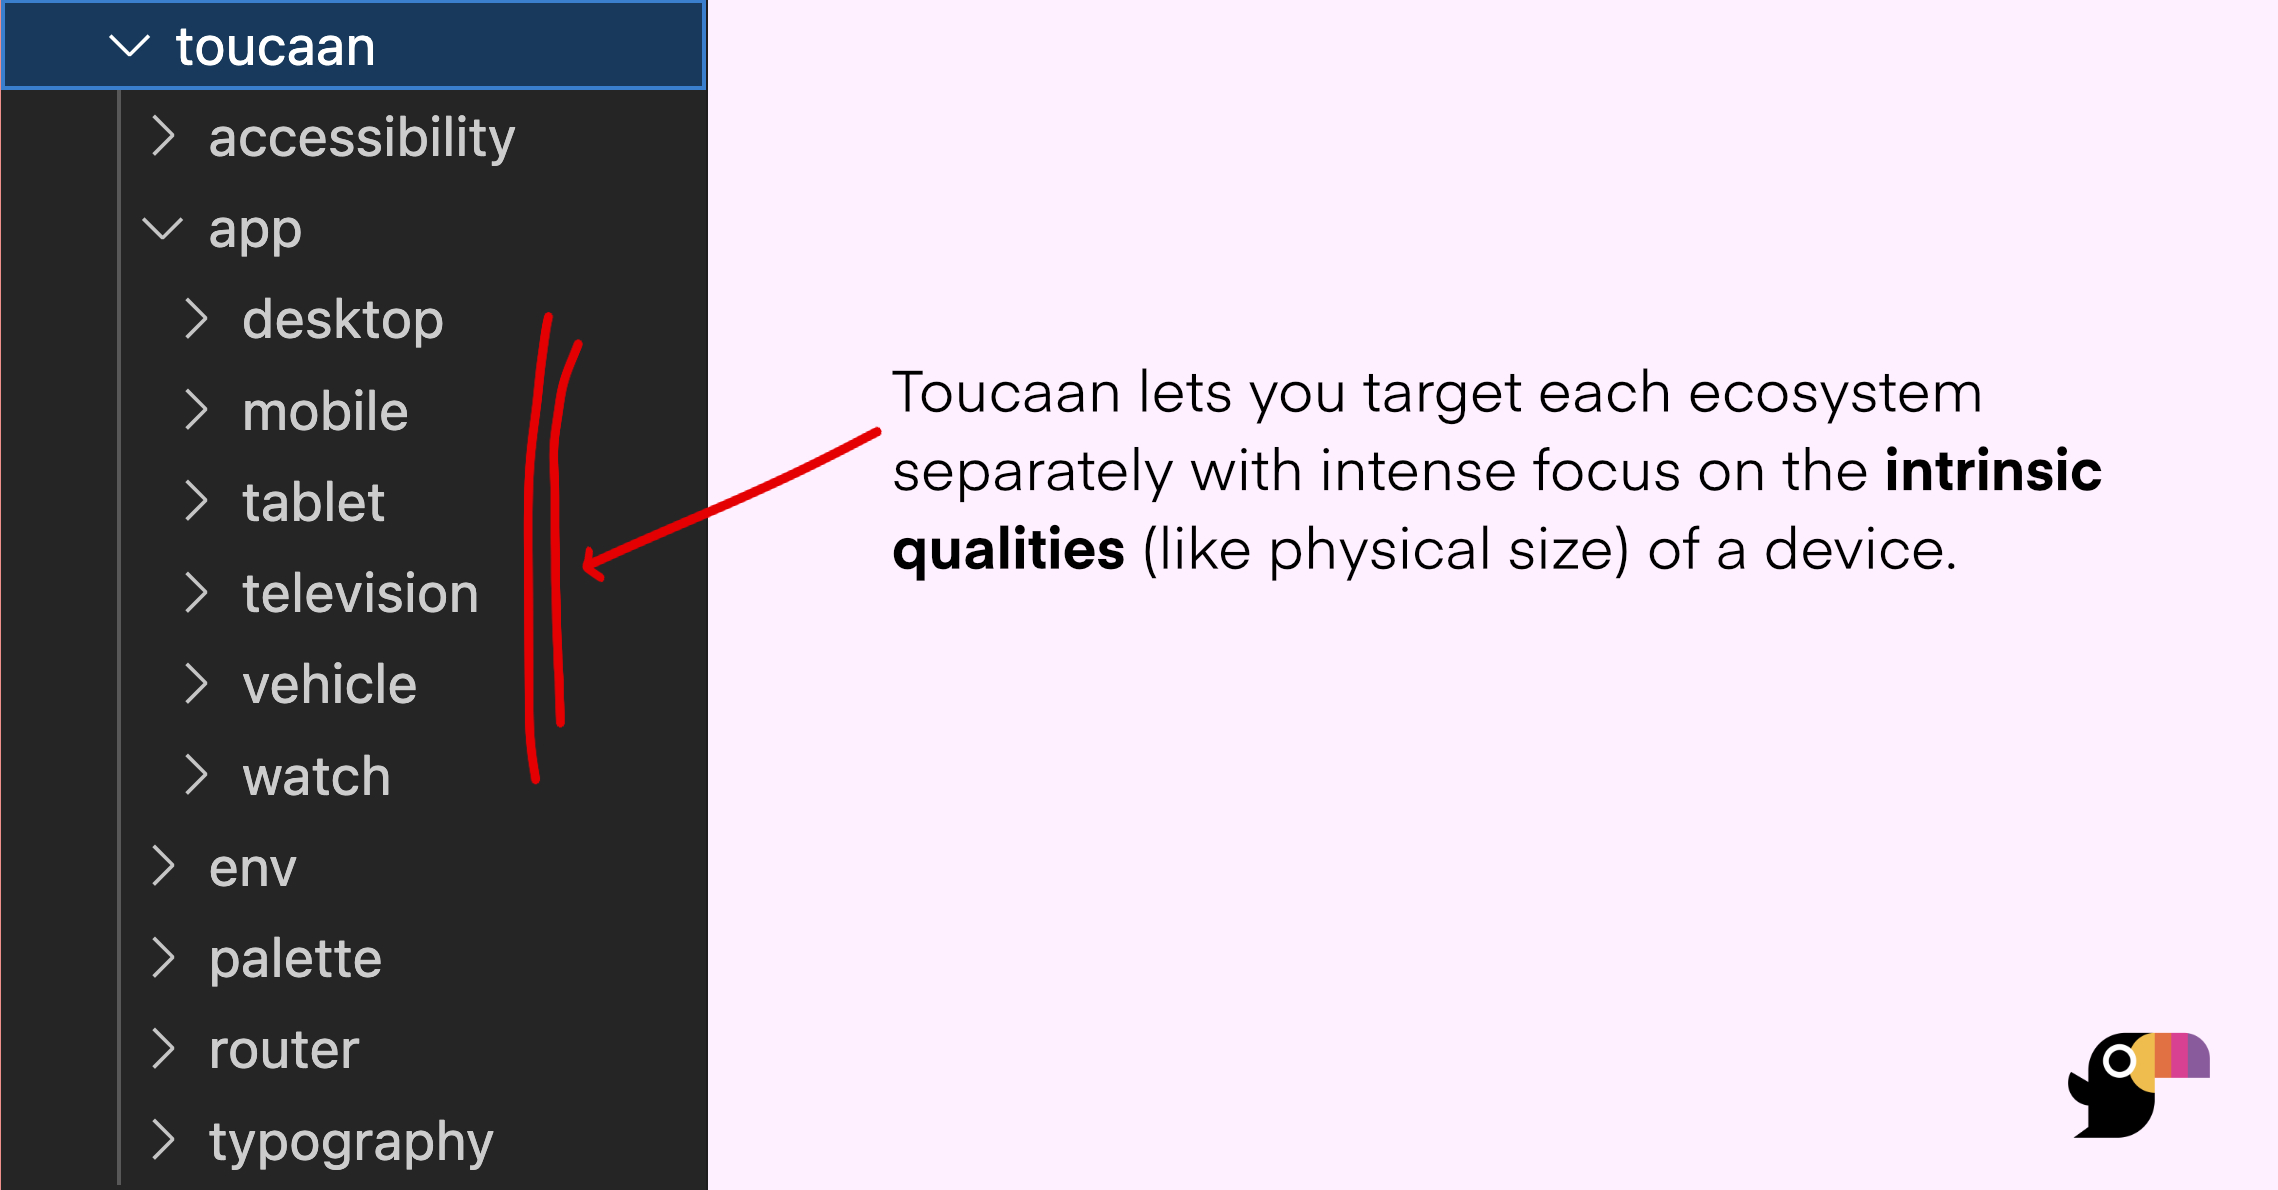
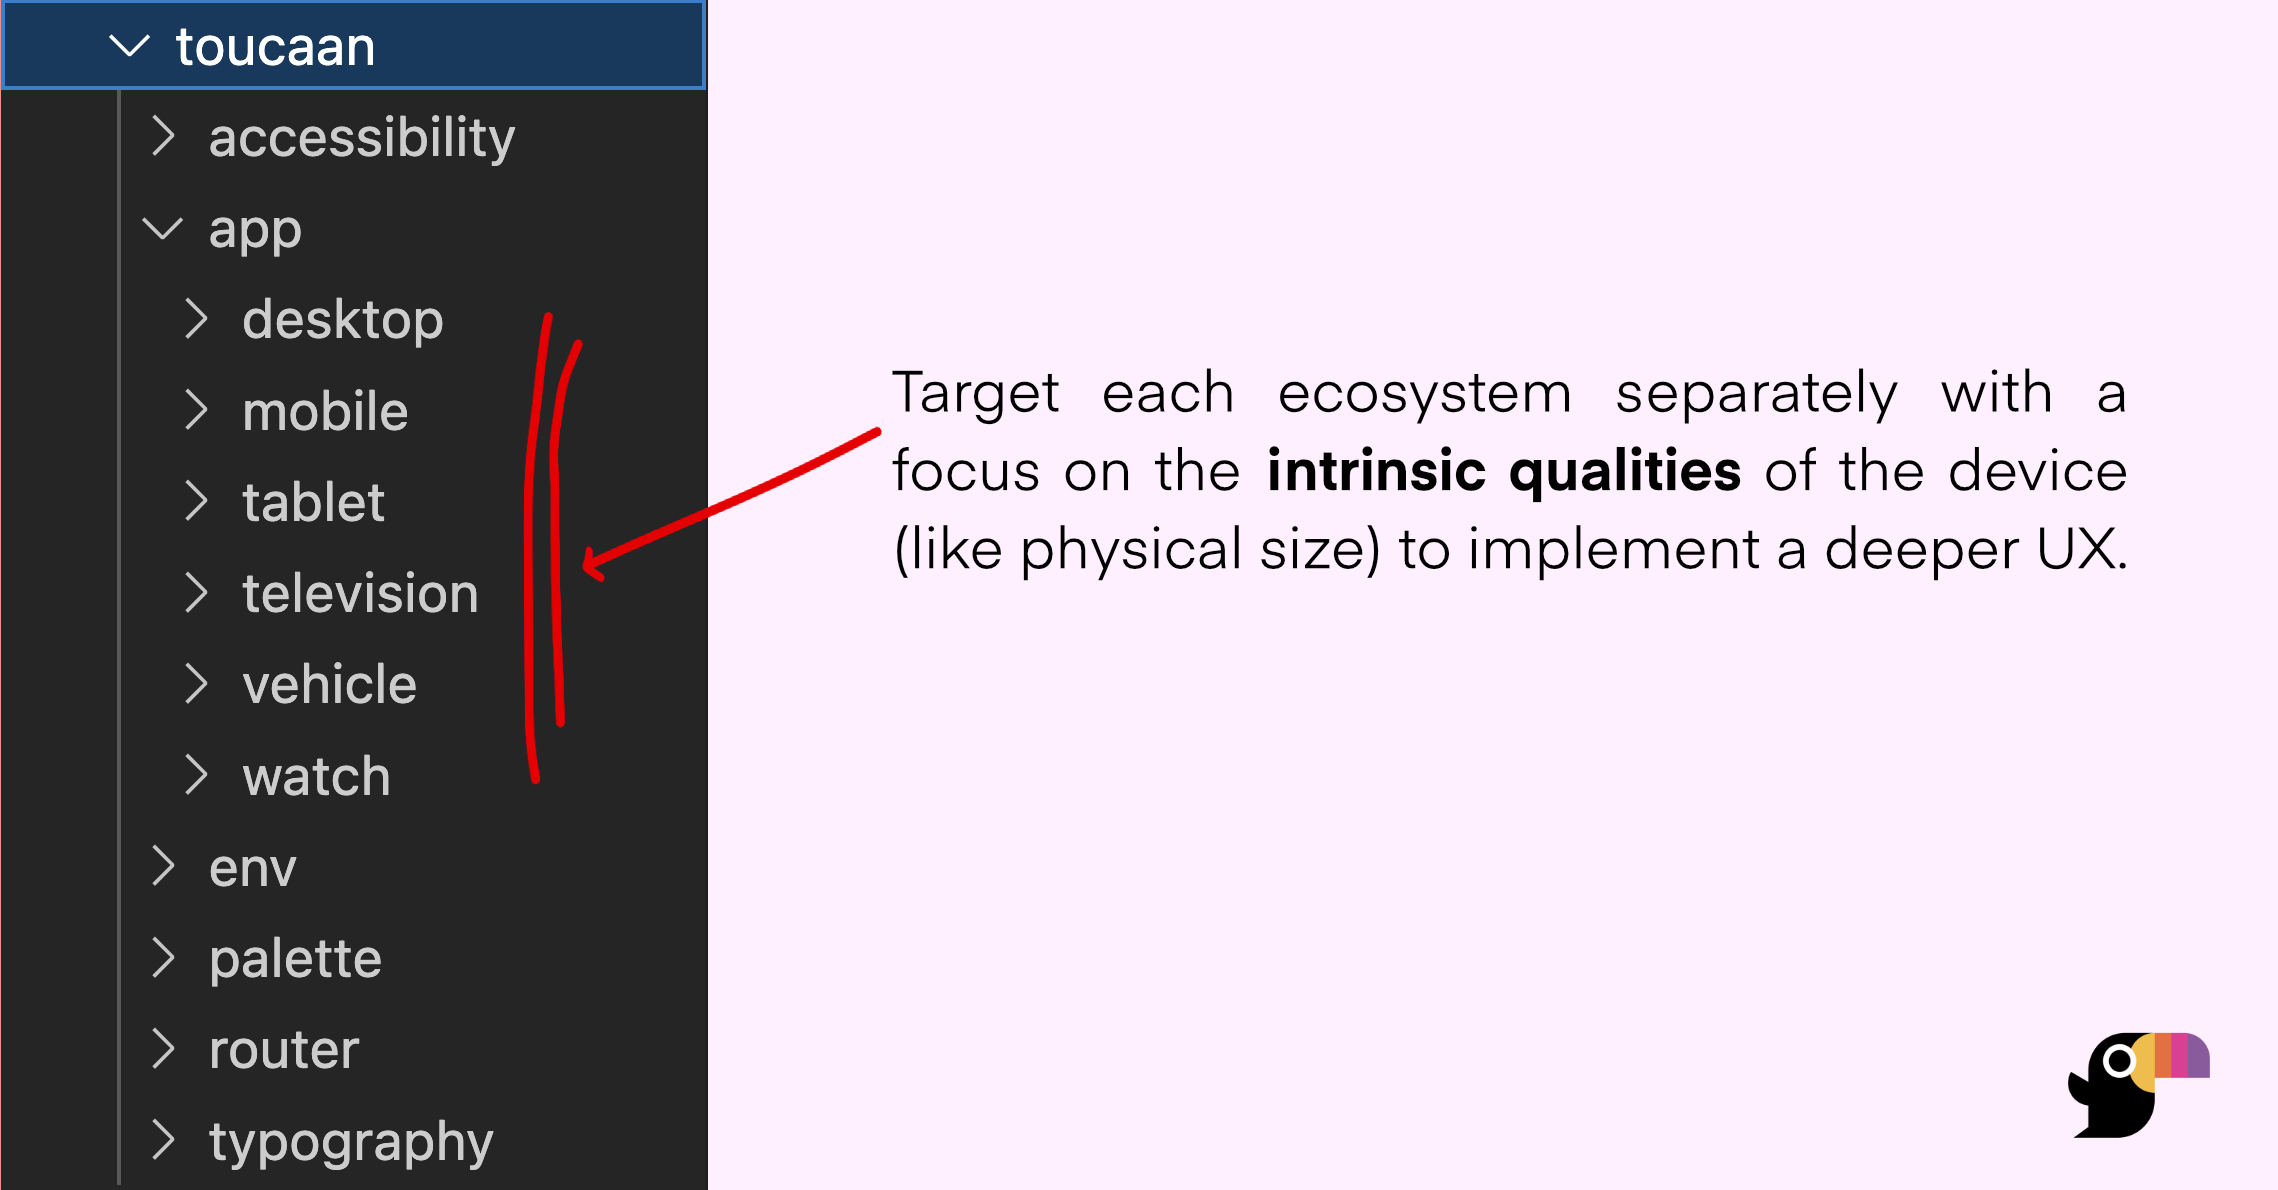
Update first two pages.

Changed region(s): [[0.374, 0.3109, 0.935, 0.4975]]

diff --git a/docs/space.md b/docs/space.md
@@ -4,25 +4,32 @@ sidebar_position: 2
 
 # The Design Space
 
-The intrinsic approach to design caters to the needs of [the new web](https://bubblin.io/blog/the-new-landscape-of-the-web). It allows design and development of "contextually relevant" interfaces that exploit the capability and accessibility situation of different type of devices.
-
-### The context
-The design space of the new web has grown beyond just mobile and the desktop. Imagine interfaces that fit electric vehicles, foldable tablets, watches and much more.
+The Intrinsic approach to design caters to [the scope of the new web](https://bubblin.io/blog/the-new-landscape-of-the-web). It allows supporting interfaces that fit electric vehicles, foldable tablets, watches, and many more without using hardcoded breakpoints.
 
 
+Design "contextually relevant" interfaces that fit the accessibility situation of a device. For example, most mobile users view content in portrait mode (~96%) on the go, whereas users on a tablet like the iPad consume content in the landscape orientation (~79%) on the bed.
+
+ 
 ### Axes of Intrinsic Design 
 
-Toucaan's architecture is a simple implementation of the [intrinsic axes of design](/blog/intrinsic-design). Shown below is a plot of web-enabled devices along the two axes of orientation in the order of increasing physical size. 
+Toucaan's architecture is a simple implementation of the routes required along [the two axes of intrinsic design](/blog/intrinsic-design). Below is a map of all the web-enabled devices plotted along the two axes of orientation in increasing order of physical size. 
 
 ![Intrinsic Design Space](img/intrinsic-design-space.jpg)
 
-Notice how the mobile (on y-axis) that is generally viewed in portrait mode and the desktop (on x-axis) that is generally viewed in landscape mode collectively form the backbone of responsive web design.
+### No Media Queries.
 
-### Is it design system?
+Intrinsic design is considerably different from the responsive approach. Unlike responsive web design, Toucaan does not require hard-coded media queries to split styles across various mediums. 
 
-Intrinsic Design is considerably different from responsive One, it is not a single design system, but a set of design systems, each with their own set of rules and guidelines, fused into one scalable strategy that just works.
 
-We encourage you to read more about the [intrinsic design space](https://bubblin.io/blog/a-css-router) to learn more about the axes of intrinsic design. Or take a look at the code of Toucaan's [intrinsic css router](https://github.com/Toucaan/toucaan/blob/master/toucaan/router/portrait.css) in the next chapter.
+**Example:** It does not even consider mobile and desktop on the same axis of web design. Notice how the mobile is placed on the y-axis of Intrinsic Design, whereas the desktop is on the x-axis. 
+
+Intrinsic design is a more logical approach to application design that is much easier to scale and maintain over the years.
+
+### Is it a Design System?
+
+Toucaan is not a single design system but a set of rules and hard-learned lessons from many that have been fused together into one scalable strategy.
+
+Read more about the [intrinsic design](https://bubblin.io/blog/a-css-router) to understand better the router described in the next chapter. Or jump straight to the code of [Toucaan's Intrinsic CSS Router](https://github.com/Toucaan/toucaan/blob/master/toucaan/router/portrait.css).
 
 
 Open `space.md` (this page) and edit some lines: the site **reloads automatically** and displays your changes.

diff --git a/docs/intro.md b/docs/intro.md
@@ -2,13 +2,12 @@
 sidebar_position: 1
 ---
 
-# Quick Introduction
+# Getting Started
 
-Let's discover **Toucaan in a few minutes**.
+Kickstart **Intrinsic Design** on your app with Toucaan in just a few minutes.
 
-## Getting Started
-
-**Create a new folder `toucaan`** in your project as follows. Run the following command:
+### Vanilla 
+**Create a new folder `toucaan`** somewhere in your project with the following command: 
 
 ```bash
 mkdir -p toucaan/{accessibility,app/{desktop,mobile,tablet,vehicle,television,watch},env/{helpers,tags},palette,router,typography,utils}
@@ -17,11 +16,16 @@ mkdir -p toucaan/{accessibility,app/{desktop,mobile,tablet,vehicle,television,wa
 
 ### Architecture
 
-The `mkdir` command above will create all the folders necessary for you to start working with [Toucaan](https://toucaan.com). These folders will contain _all_ of the css necessary for your application's multiple frontends. 
+Toucaan uses a simple architecture to cover the full design space of Intrinsic Design. Here is how it looks:
 
 ![Toucaan architecture](img/toucaan-folders.jpg)
 
-Learn more about the complete design space in the [next chapter](space.md).
+The `mkdir` command above created all the folders necessary for you to start working with [Toucaan](https://toucaan.com). These folders contain **ALL THE STYLES needed for your application's multiple frontends**. 
+
+
+Notice how Toucaan separates stylesheets according to the type of device(s) you wish to support. It uses a [simple css router](router.md) that prioritizes and loads the correct stylesheet for the device a user is on. 
+
+Learn about the intrinsic design space in the [next chapter](space.md).
 
 
 Open `intro.md` (this page) and edit some lines: the site **reloads automatically** and displays your changes.
